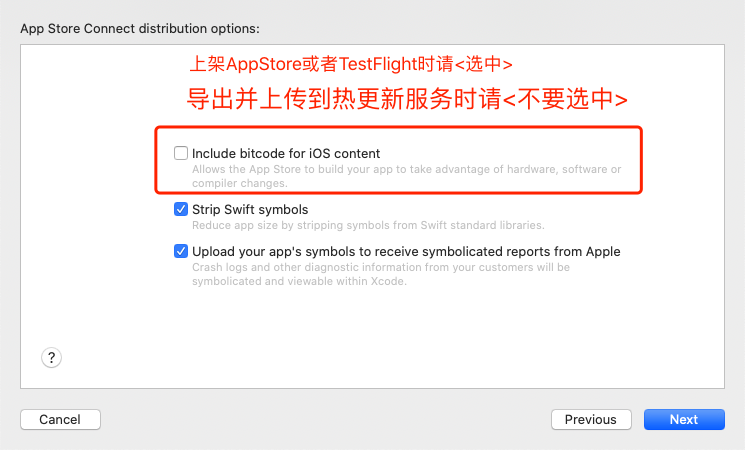
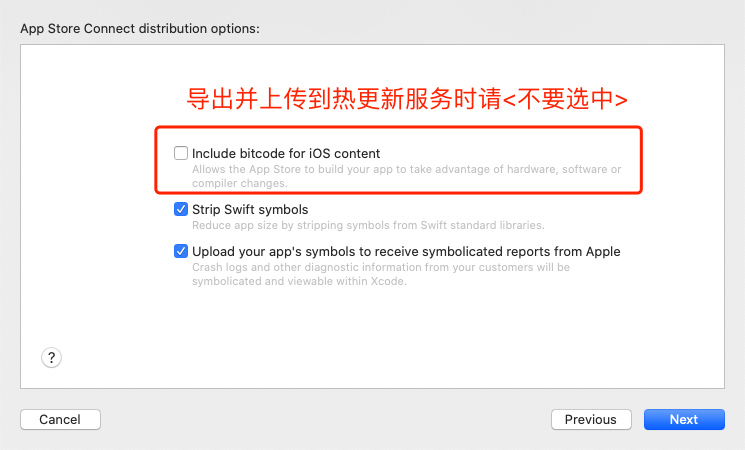
Update docs

Changed region(s): [[0.247, 0.1244, 0.6792, 0.1556]]

diff --git a/site/docs/publish.md b/site/docs/publish.md
@@ -29,9 +29,9 @@ $ pushy uploadIpa <ipa后缀文件>
 
 此 ipa 的`CFBundleShortVersionString`字段(位于`ios/项目名/Info.plist`中)会被记录为原生版本号`packageVersion`。
 
-随后你可以选择往 AppStore 上传这个版本（注意是刚刚已经 archive 完成的包重新选择 Upload 选项，且此时应该勾选 bitcode 选项），也可以先通过[Test flight](https://developer.apple.com/cn/testflight/)或[蒲公英](https://www.pgyer.com/doc/view/build_ipa)等渠道进行真机安装测试。请注意：暂不支持通过 Xcode 直接进行热更新测试。
+随后你可以选择往 AppStore 上传这个版本（可以重新 export 并调整相关选项，但请不要重新 archive），也可以先通过[Test flight](https://developer.apple.com/cn/testflight/)或[蒲公英](https://www.pgyer.com/doc/view/build_ipa)等渠道进行真机安装测试。请注意：暂不支持通过 Xcode 直接进行热更新测试。
 
-如果后续需要再次打包（例如修改原生代码或配置），请先**更改版本号**，并再次`uploadIpa`到服务器端记录，否则后续生成的相同版本的原生包会由于[编译时间戳不一致而`无法获取热更新`](faq.html#热更新报错：热更新已暂停，原因：buildtime-mismatch。)。
+如果后续需要再次 archive 打包（例如修改原生代码或配置），请先**更改版本号**，并在打包完成后再次`uploadIpa`到服务器端记录，否则后续生成的相同版本的原生包会由于[编译时间戳不一致而`无法获取热更新`](faq.html#热更新报错：热更新已暂停，原因：buildtime-mismatch。)。
 
 > 注意：如果你在上传之前就运行了新的原生版本，由于服务器端没有记录，会暂停其更新数小时。可在删除原先安装的 app 再重新安装以清空暂停设置。在上传之后安装的客户端不会受此影响。
 

diff --git a/site/docs/changelog.md b/site/docs/changelog.md
@@ -4,6 +4,10 @@ title: 更新日志
 type: 其他
 ---
 
+### 8.0.1（2022-07-05）
+
+- 没有update.json文件的情况下不会再报错
+  
 ### 7.4.1（2022-05-04）
 
 - 修复极少数热更失败的情况
